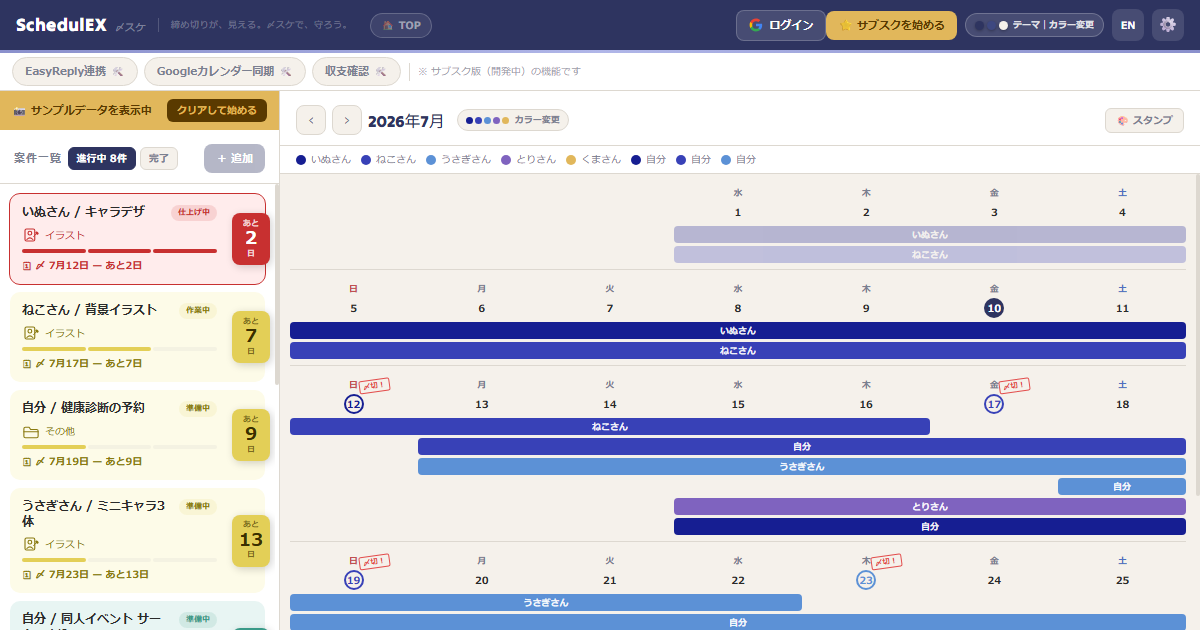
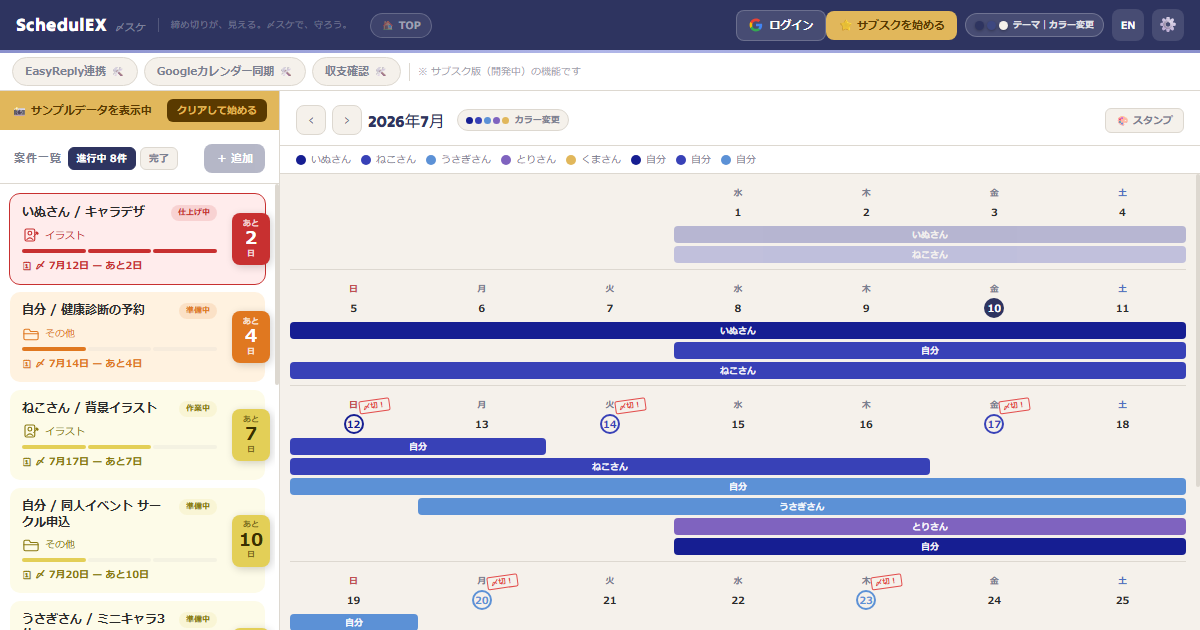
fix: OGP画像でデモの個人予定が見えるよう締切を調整
「自分」の予定(健康診断・同人イベント申込)がサイドバー下部で
見切れていたため、締切日数を早めてリスト上位(2番目・4番目)に
表示されるよう調整。OGP画像も撮り直し。

diff --git a/current/schedulex_pro.html b/current/schedulex_pro.html
@@ -2794,6 +2794,8 @@ function generateDemoOrders() {
     { id:'demo4', name:'とりさん / Live2D素材',      name_en:'Tori / Live2D Assets',       type:'design',       deadline:dl(20), currentPhase:0, notes:'', phaseDays:ph(7,5,3) },
     { id:'demo5', name:'くまさん / 動画サムネ',      name_en:'Kuma / Video Thumbnail',     type:'video',        deadline:dl(25), currentPhase:0, notes:'', phaseDays:ph(5,3,2) },
     { id:'demo6', name:'自分 / 同人誌表紙',          name_en:'Me / Doujin Cover',          type:'illustration', deadline:dl(31), currentPhase:0, notes:'', phaseDays:ph(14,7,5) },
+    { id:'demo7', name:'自分 / 健康診断の予約',      name_en:'Me / Health Checkup',        type:'other', deadline:dl(4),  currentPhase:0, notes:'', phaseDays:[{id:'rough',name:'準備',days:3},{id:'fix',name:'確認',days:2},{id:'final',name:'当日',days:1}] },
+    { id:'demo8', name:'自分 / 同人イベント サークル申込', name_en:'Me / Doujin Event Application', type:'other', deadline:dl(10), currentPhase:0, notes:'', phaseDays:[{id:'rough',name:'準備',days:5},{id:'fix',name:'確認',days:2},{id:'final',name:'締切',days:1}] },
   ];
 }
 
